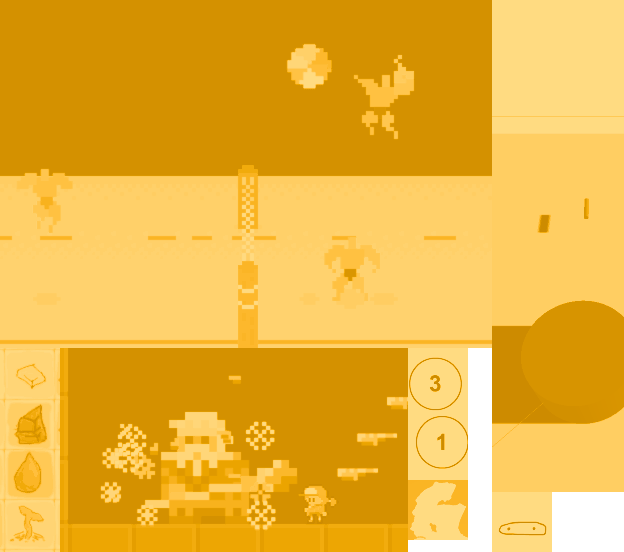
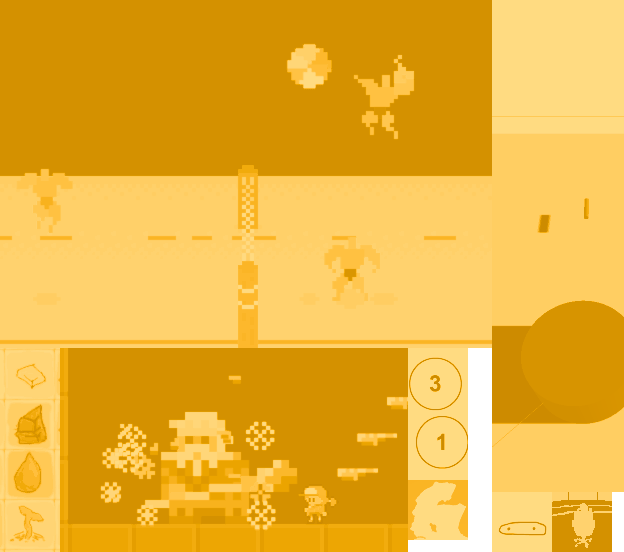
Adding four older projects, cleaning up yellow preview image sheets

Changed region(s): [[0.883, 0.8931, 1.0, 1.0]]

diff --git a/project-data.js b/project-data.js
@@ -9,7 +9,9 @@ module.exports = [
 		instructions: null,
 		grid: {
 			previewImage: {
-				url: "/img/pixel-art-grapplegirl/yellow.png"
+				url: "/sheets/sheet2.png",
+				x: 204,
+				y: 625
 			},
 			imageUrl: "/img/pixel-art-grapplegirl/animated.gif",
 			tiles: ["X"]
@@ -36,7 +38,9 @@ module.exports = [
 		instructions: null,
 		grid: {
 			previewImage: {
-				url: "/img/painting-skull/yellow.jpg"
+				url: "/sheets/sheet3.png",
+				x: 552,
+				y: 336
 			},
 			imageUrl: "/img/painting-skull/icon.jpg",
 			tiles: ["X","X"]
@@ -62,7 +66,9 @@ module.exports = [
 		instructions: null,
 		grid: {
 			previewImage: {
-				url: "/img/pixel-art-ghus/yellow.png"
+				url: "/sheets/sheet2.png",
+				x: 192,
+				y: 684
 			},
 			imageUrl: "/img/pixel-art-ghus/animated.gif",
 			tiles: ["X"]
@@ -85,11 +91,13 @@ module.exports = [
 		timePeriod: "June 2015",
 		medium: "Photoshop",
 		repoUrl: null,
-		description: "A quick tree painted pixel by pixel.",
+		description: "A tree painted pixel by pixel.",
 		instructions: null,
 		grid: {
 			previewImage: {
-				url: "/img/pixel-art-tree/yellow.png"
+				url: "/sheets/sheet3.png",
+				x: 132,
+				y: 480
 			},
 			imageUrl: "/img/pixel-art-tree/animated.gif",
 			tiles: ["XX","XX"]
@@ -282,6 +290,34 @@ module.exports = [
 			y: 0
 		}
 	}, {
+		id: "comic-grunt-birthday",
+		title: "Grunt Birthday",
+		timePeriod: "November 2014",
+		medium: "Pen on Paper",
+		repoUrl: null,
+		description: "My first thought when I heard about the 'Grunt Birthday' option in Halo.",
+		instructions: null,
+		grid: {
+			previewImage: {
+				url: "/sheets/sheet3.png",
+				x: 264,
+				y: 480
+			},
+			imageUrl: "/img/comic-grunt-birthday/icon.jpg",
+			tiles: ["X","X"]
+		},
+		content: {
+			type: "image",
+			url: "/img/comic-grunt-birthday/small.jpg",
+			width: 310,
+			height: 470,
+			full: {
+				url: "/img/comic-grunt-birthday/full.jpg",
+				width: 620,
+				height: 940,
+			}
+		}
+	}, {
 		id: "space-team-galaxy-explorer",
 		title: "Space Team: Galaxy Explorer",
 		timePeriod: "November 2014",
@@ -332,32 +368,6 @@ module.exports = [
 			y: 9
 		}
 	}, {
-		id: "painting-mint-sun",
-		title: "Untitled",
-		timePeriod: "2014",
-		medium: "Acrylic on canvas",
-		repoUrl: null,
-		description: null,
-		instructions: null,
-		grid: {
-			previewImage: {
-				url: "/img/painting-mint-sun/yellow.jpg"
-			},
-			imageUrl: "/img/painting-mint-sun/icon.jpg",
-			tiles: ["XX"]
-		},
-		content: {
-			type: "image",
-			url: "/img/painting-mint-sun/small.jpg",
-			width: 458,
-			height: 363,
-			full: {
-				url: "/img/painting-mint-sun/full.jpg",
-				width: 915,
-				height: 725
-			}
-		}
-	}, {
 		id: "spider-game",
 		title: "Spider game",
 		timePeriod: "September 2014",
@@ -392,7 +402,9 @@ module.exports = [
 		instructions: null,
 		grid: {
 			previewImage: {
-				url: "/img/painting-propeller-knight/yellow.jpg"
+				url: "/sheets/sheet3.png",
+				x: 324,
+				y: 480
 			},
 			imageUrl: "/img/painting-propeller-knight/icon.jpg",
 			tiles: ["X","X"]
@@ -490,6 +502,62 @@ module.exports = [
 			}
 		}
 	}, {
+		id: "drawing-peacock-feather",
+		title: "Peacock Feather",
+		timePeriod: "2014",
+		medium: "Felt pen on paper",
+		repoUrl: null,
+		description: null,
+		instructions: null,
+		grid: {
+			previewImage: {
+				url: "/sheets/sheet2.png",
+				x: 0,
+				y: 684
+			},
+			imageUrl: "/img/drawing-peacock-feather/icon.jpg",
+			tiles: ["XX"]
+		},
+		content: {
+			type: "image",
+			url: "/img/drawing-peacock-feather/full.jpg",
+			width: 327,
+			height: 418,
+			full: {
+				url: "/img/drawing-peacock-feather/full.jpg",
+				width: 653,
+				height: 835,
+			}
+		}
+	}, {
+		id: "painting-mint-sun",
+		title: "Untitled",
+		timePeriod: "2014",
+		medium: "Acrylic on canvas",
+		repoUrl: null,
+		description: null,
+		instructions: null,
+		grid: {
+			previewImage: {
+				url: "/sheets/sheet2.png",
+				x: 276,
+				y: 660
+			},
+			imageUrl: "/img/painting-mint-sun/icon.jpg",
+			tiles: ["XX"]
+		},
+		content: {
+			type: "image",
+			url: "/img/painting-mint-sun/small.jpg",
+			width: 458,
+			height: 363,
+			full: {
+				url: "/img/painting-mint-sun/full.jpg",
+				width: 915,
+				height: 725
+			}
+		}
+	}, {
 		id: "tranquilime",
 		title: "tranquilime",
 		timePeriod: "September 2013",
@@ -549,7 +617,9 @@ module.exports = [
 		instructions: null,
 		grid: {
 			previewImage: {
-				url: "/img/painting-gazelle/yellow.jpg"
+				url: "/sheets/sheet3.png",
+				x: 384,
+				y: 480
 			},
 			imageUrl: "/img/painting-gazelle/icon.jpg",
 			tiles: ["XX","XX"]
@@ -589,6 +659,64 @@ module.exports = [
 			height: 500,
 			x: 10,
 			y: 80
+		}
+	}, {
+		id: "comic-dota-matchmaking",
+		title: "DotA 2 Matchmaking",
+		timePeriod: "2012",
+		medium: "Photoshop",
+		repoUrl: null,
+		description: "My experiences with DotA 2 matchmaking.",
+		instructions: null,
+		grid: {
+			previewImage: {
+				url: "/sheets/sheet1.png",
+				x: 552,
+				y: 492
+			},
+			imageUrl: "/img/comic-dota-matchmaking/icon.gif",
+			tiles: ["X"]
+		},
+		content: {
+			type: "image",
+			url: "/img/comic-dota-matchmaking/small.jpg",
+			width: 375,
+			height: 407,
+			isPixelArt: true,
+			full: {
+				url: "/img/comic-dota-matchmaking/full.gif",
+				width: 750,
+				height: 813
+			}
+		}
+	}, {
+		id: "pixel-art-gazelle",
+		title: "Gazelle Gladiator",
+		timePeriod: "2012",
+		medium: "Photoshop",
+		repoUrl: null,
+		description: "One of my first pieces of pixel art.",
+		instructions: null,
+		grid: {
+			previewImage: {
+				url: "/sheets/sheet2.png",
+				x: 132,
+				y: 684
+			},
+			imageUrl: "/img/pixel-art-gazelle/icon.gif",
+			tiles: ["X"]
+		},
+		content: {
+			type: "image",
+			url: "/img/pixel-art-gazelle/168x182.gif",
+			width: 336,
+			height: 364,
+			isPixelArt: true,
+			full: {
+				url: "/img/pixel-art-gazelle/168x182.gif",
+				width: 840,
+				height: 910
+			}
 		}
 	}, {
 		id: "zombie-aflockalypse",
